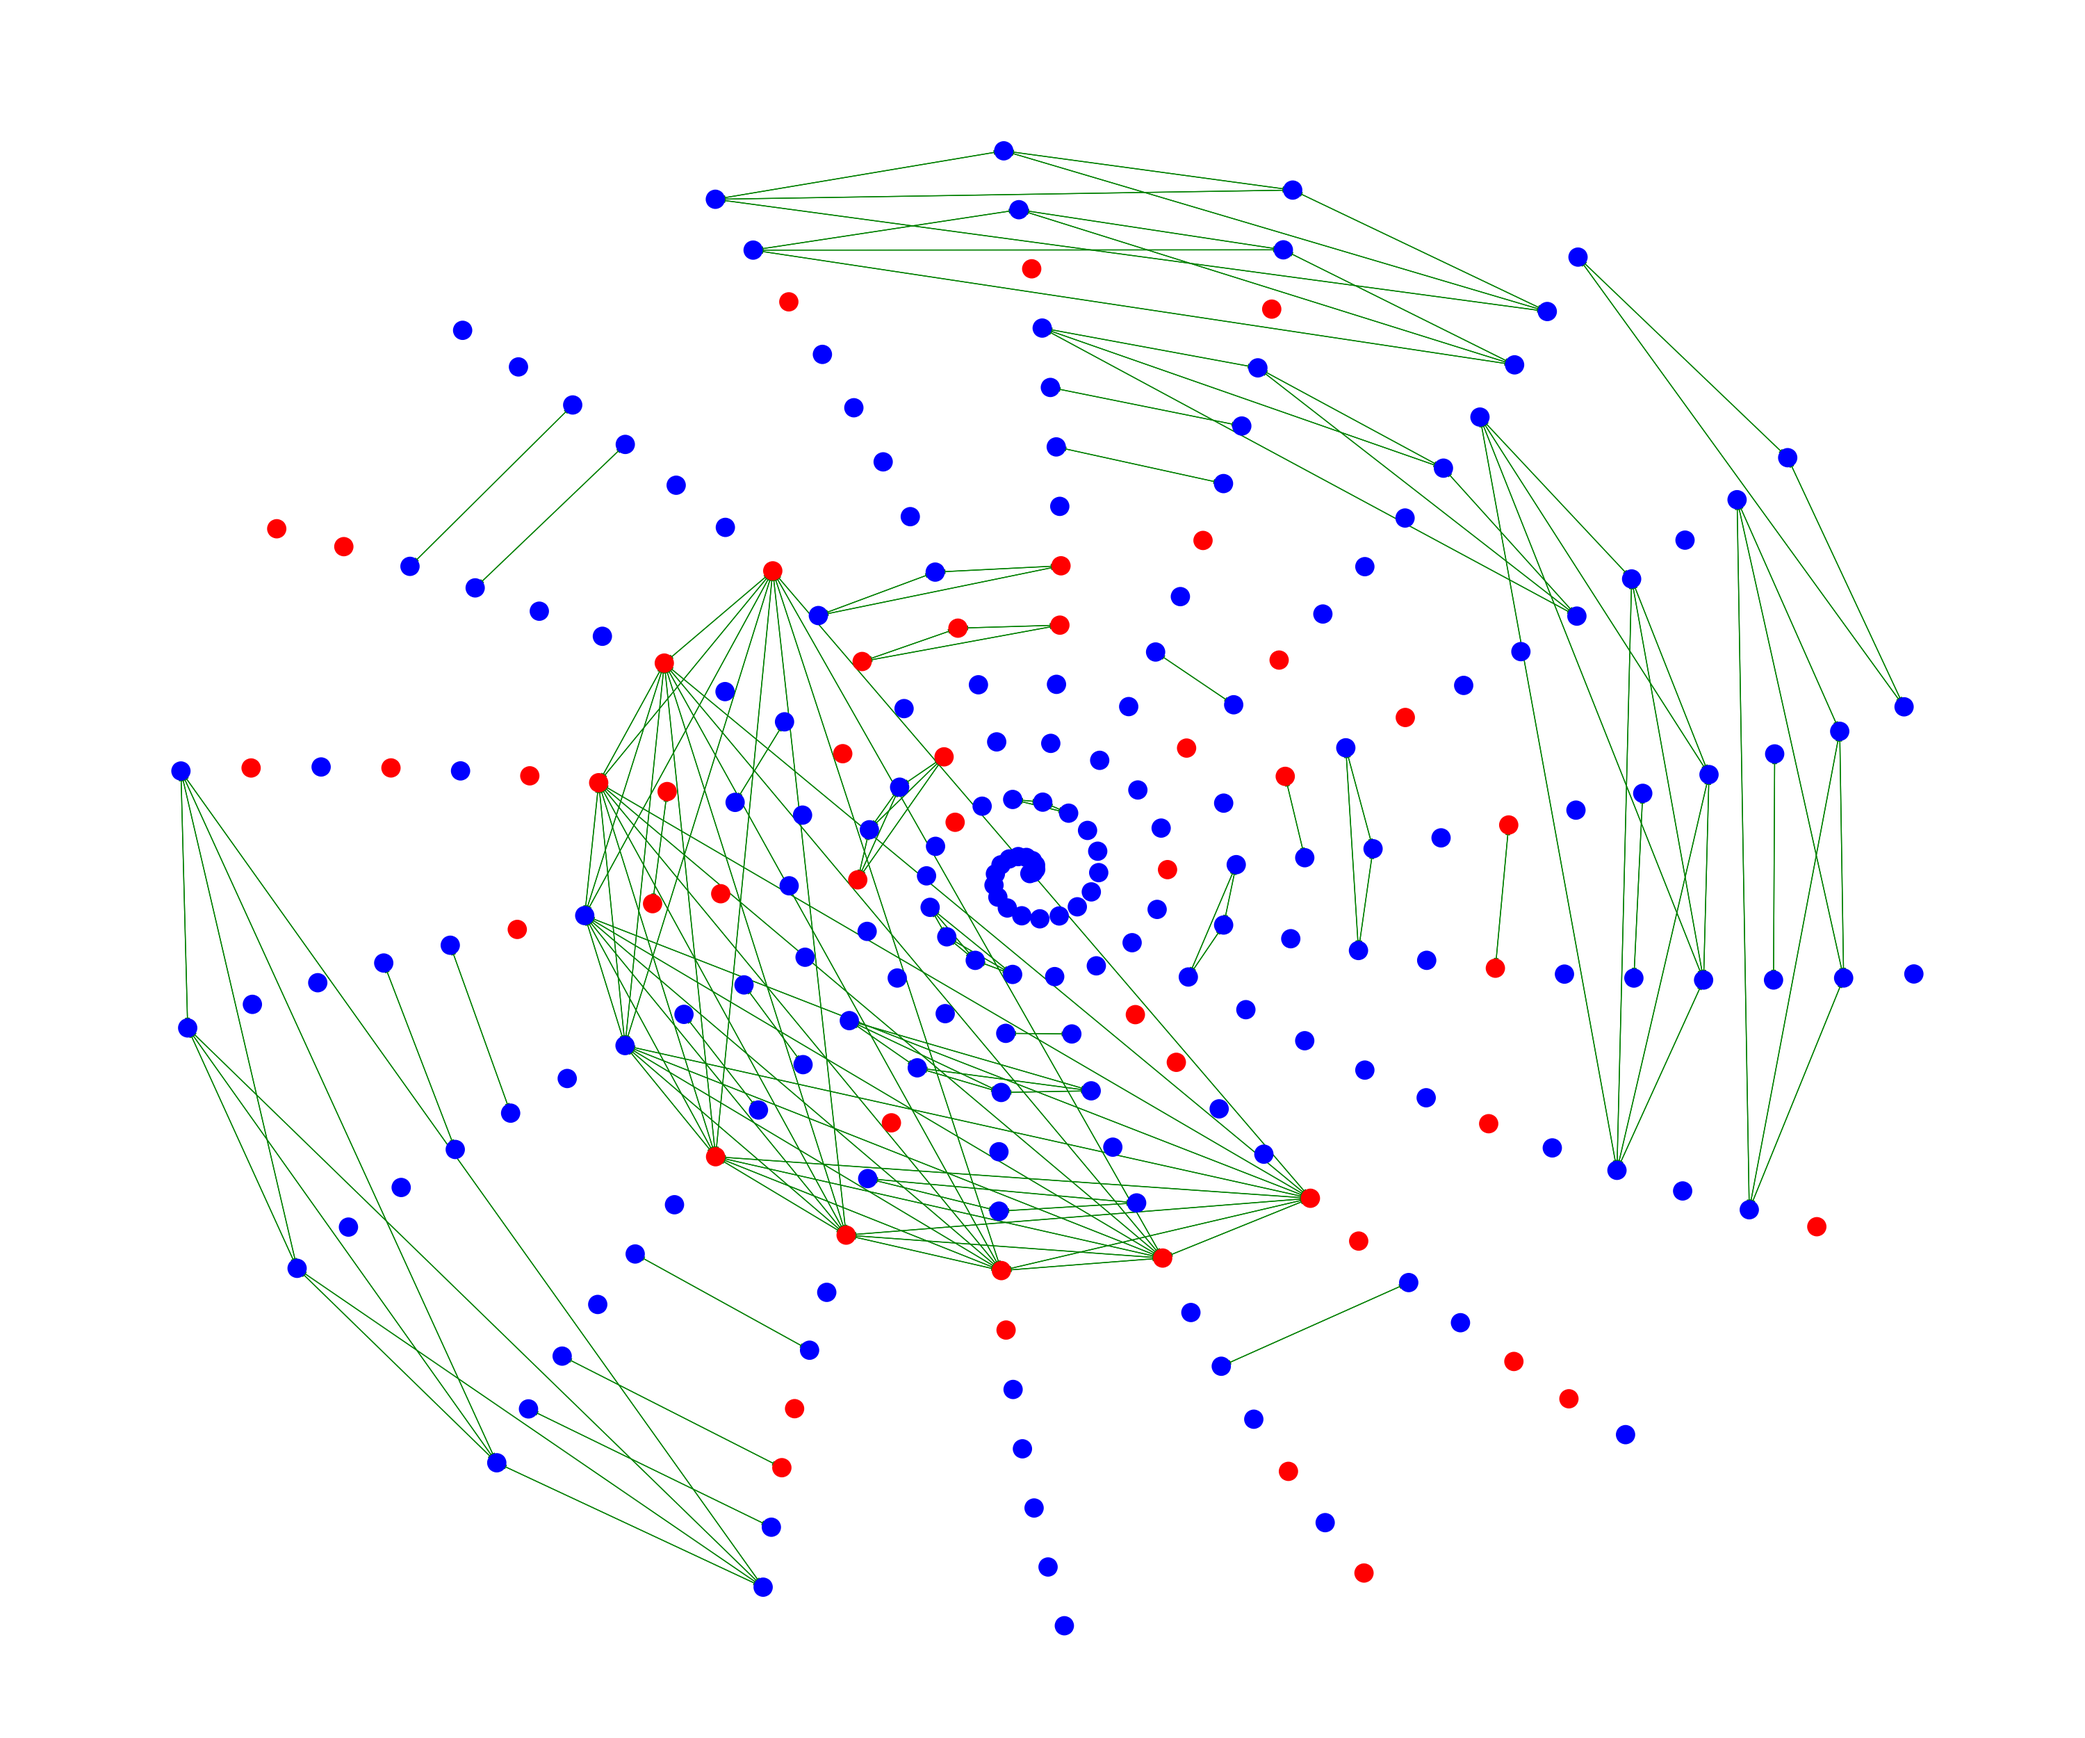
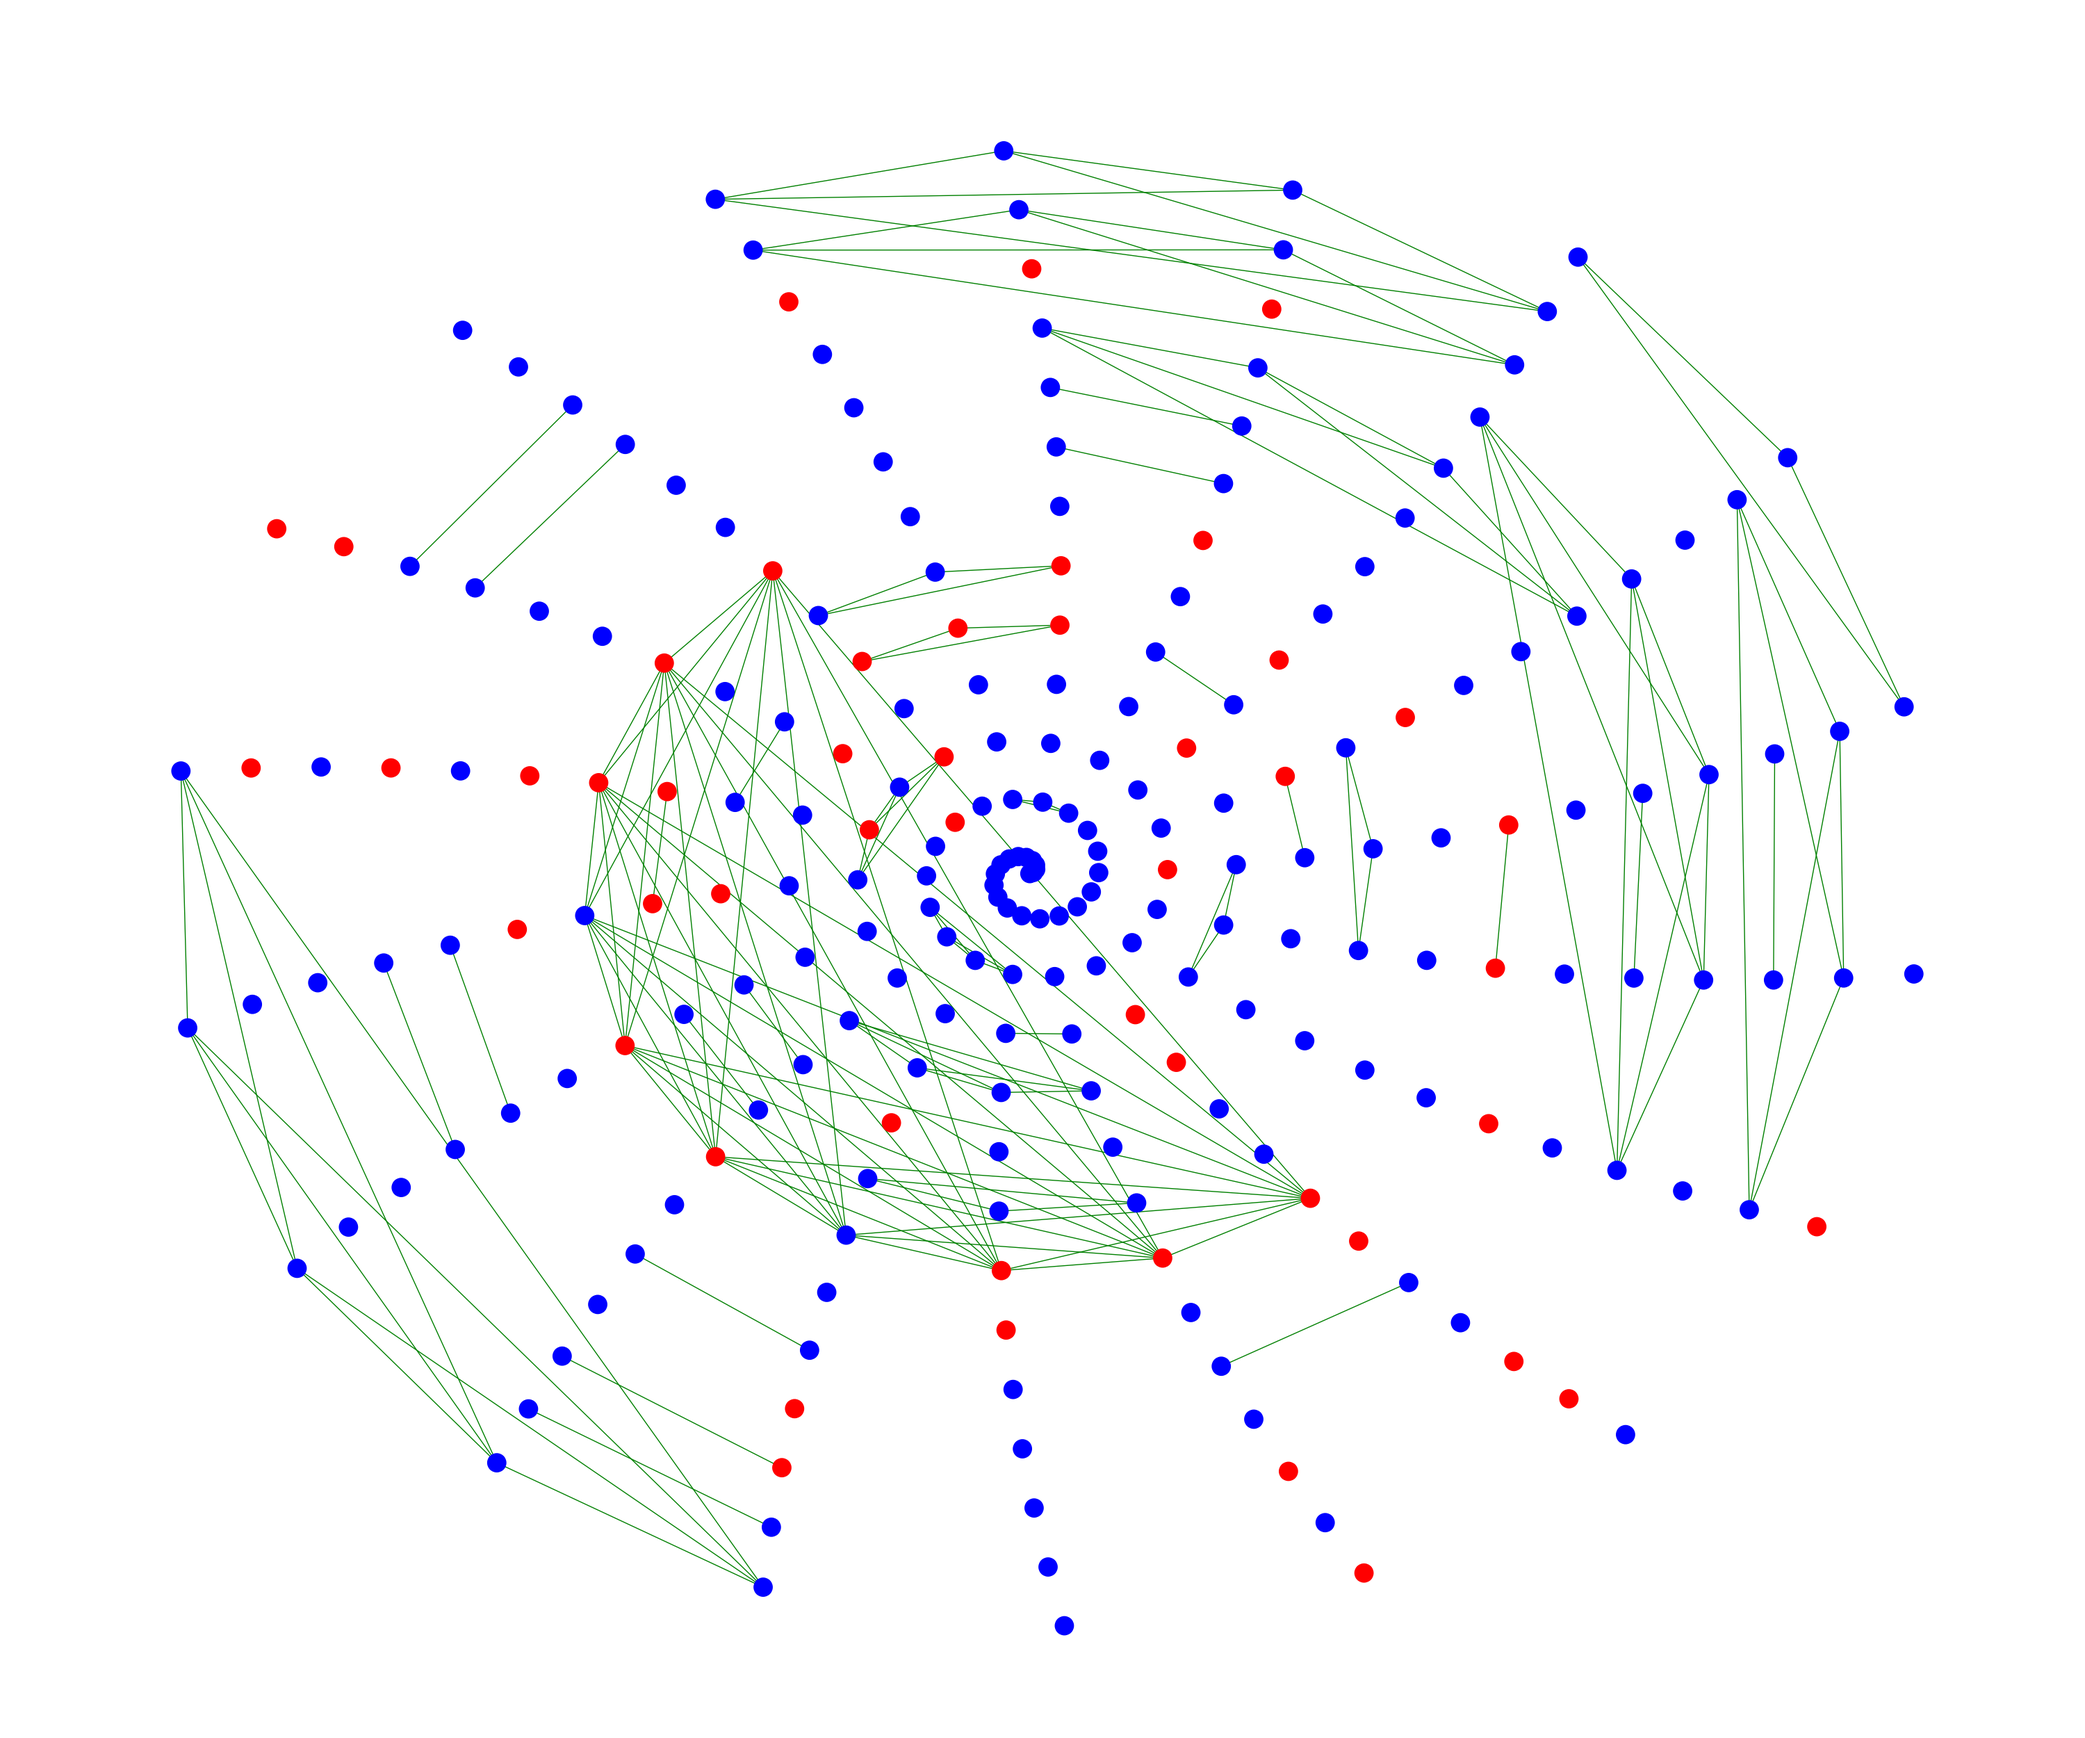
fixed bug

diff --git a/network_x.py b/network_x.py
@@ -6,16 +6,16 @@ csv_url = 'US-G06F.csv'
 country_tech_url = csv_url.partition('.')[0]
 df = pd.read_csv(csv_url)
 new_df = pd.DataFrame()
-join_df = pd.read_csv(csv_url, usecols=['inventor_id', 'GMI1yr_prevexpabroad'])
+join_df = pd.read_csv(csv_url, usecols=['inventor_id', 'GMI1yr_prevexpabroad']) #TODO: why?
 
 patent_to_inventor = {}
 inventor_to_patent = {}
 inventor_to_partner = {}
 inventor_to_indicator = {}
 
-inventor_id_list = []
+inventor_list = []
 global_partner_list = []
-partner_id_count_list = []
+partner_count_list = []
 color_list = []
 deg_centrality_list = []
 close_centrality_list = []
@@ -40,23 +40,27 @@ for index, row in df.iterrows():
         inventor_to_indicator[inventor_id] = row['GMI1yr_prevexpabroad']
 
 for inventor, patent in inventor_to_patent.items():
-    inventor_id_list.append(inventor)
     if inventor not in inventor_to_partner:
         inventor_to_partner[inventor] = []
         for pat in patent:
             partner_list = patent_to_inventor[pat]
             partner_list = [x for x in partner_list if x != inventor]
             inventor_to_partner[inventor] += partner_list
+            inventor_to_partner[inventor] = list(set(inventor_to_partner[inventor]))
         global_partner_list.append(inventor_to_partner[inventor])
-        partner_id_count_list.append(len(inventor_to_partner[inventor]))
+        partner_count_list.append(len(inventor_to_partner[inventor]))
 
-new_df['inventor_id'] = inventor_id_list
+inventor_list = inventor_to_patent.keys()
+
+new_df['inventor_id'] = inventor_list
 new_df['partner_list'] = global_partner_list
-new_df['partner_count'] = partner_id_count_list
+new_df['partner_count'] = partner_count_list
 
-g = nx.DiGraph()
+g = nx.Graph()
 
 for inventor, partner in inventor_to_partner.items():
+    if inventor == '4750112-2':
+        print(partner)
     g.add_node(inventor)
     for part in partner:
         g.add_node(part)
@@ -89,12 +93,11 @@ new_df['deg_centrality'] = deg_centrality_list
 new_df['close_centrality'] = close_centrality_list
 new_df['bet_centrality'] = bet_centrality_list
 new_df['page_rank'] = pr_list
+join_df = join_df.drop_duplicates()
 new_df = new_df.join(join_df.set_index('inventor_id'), on = 'inventor_id')
 
 new_df.to_csv(country_tech_url + '_network.csv', index=False)
 
 # centrality no GMIs/check bet and repeat values
-
 # no GMIs in partner list, centrality only for GMIs, with non-GMIs as 0
-
 # one big csv of by country and by tech centrality
